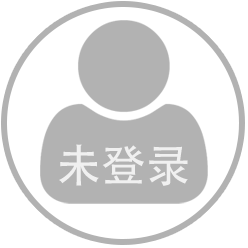
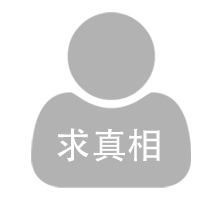
新增界面图标，实现首页布局

diff --git a/index.html b/index.html
@@ -8,13 +8,20 @@
 <meta name="apple-mobile-web-app-capable" content="yes" />
 <meta name="format-detection" content="telephone=no">
 <meta content="email=no" name="format-detection" />
+
+<!--禁止浏览器从本地计算机的缓存中访问页面内容-->
+<META HTTP-EQUIV="pragma" CONTENT="no-cache">
+<META HTTP-EQUIV="Cache-Control" CONTENT="no-cache, must-revalidate">
+<META HTTP-EQUIV="expires" CONTENT="Wed, 26 Feb 1997 08:21:57 GMT">
+<META HTTP-EQUIV="expires" CONTENT="0">
+
 <!--设置状态栏样式-->
 <meta name="apple-mobile-web-app-status-bar-style" content="black" />
-<!--禁止浏览器从本地计算机的缓存中访问页面内容-->
-<meta HTTP-EQUIV="Pragma" CONTENT="no-cache">
+
 
 <link rel="stylesheet" type="text/css" href="lib/css/icons.min.css" />
 <link rel="stylesheet" type="text/css" href="lib/css/af.ui.css" />
+<link rel="stylesheet" type="text/css" href="lib/css/app.css" />
 
 <script type="text/javascript" data-main="lib/app.js" charset="utf-8" src="lib/require.js"></script>
 
@@ -40,8 +47,13 @@
         
         <!--公共头部开始-->
         <header>
-        	<div style="width:60%; float:left; padding-left:30px;"><img src="lib/img/logo.png" height="35" /></div>
-            <h1>金易行</h1>
+        	<div class="jui-header-logo">
+            	<img src="lib/img/logo_name.png" height="35" />
+            </div>
+            <h1></h1>
+            <div class="jui-header-menubtn">
+            	<a href="javascript:void(0)" onclick="$.afui.drawer.show('#subnav','right','push')"><img src="lib/img/icon_menu_more.png" height="20" /></a>
+            </div>
         </header>
         <!--公共头部结束-->
         
@@ -49,41 +61,79 @@
         <!--主内容区开始-->
         <div class="pages">
         
-            <div data-left-drawer="left" class="panel" id="main" data-title="金易行" data-selected="true">
-            <p id='main_info'>Welcome to the kitchen sink demo for App Framework UI. Here you will find samples of how to use the App Framework UI. Please select an option from below.</p>
-                    <ul class="list">
-                        <li>
-                            <a href="#afuidemo/foo/bar/something">App Framework UI</a>
-                        </li>
-                        <li>
-                            <a href="#plugins">Plugins</a>
-                        </li>
-                        <li>
-                            <a href="index.html" data-ignore="true">App Framework theme</a>
-                        </li>
-                         <li>
-                            <a href="index.html?ios7" data-ignore="true">iOS theme</a>
-                        </li>
-                        <li>
-                            <a href="index.html?android" data-ignore="true">Android theme</a>
-                        </li>
-                        <li>
-                            <a href="index.html?win8" data-ignore="true">Win8 theme</a>
-                        </li>
-                        <li>
-                            <a href="index.html?bb" data-ignore="true">BB10 theme</a>
-                        </li>
-
-                         <li>
-                            <a href="index.html?tizen" data-ignore="true">tizen</a>
-                        </li>
-                        <li>
-                            <a href="index.html?firefox" data-ignore="true">firefox</a>
-                        </li>
-
-
-                    </ul>
+            <div data-left-drawer="left" class="panel" id="main" data-title="">
+				
+                <div class="jui-main-wrap">
+  					<div class="jui-main-weather"></div>
+                    <div class="jui-main-card">
+                        <table>
+                            <tr>
+                                <td>
+                                	<div class="jui-main-headimg"><img src="lib/img/icon_user_nologin.png"/></div>
+                                    <div class="jui-main-username">134***7636</div>
+                                </td>
+                                <td>
+                                	<div class="jui-main-cardno">卡号：134***7636</div>
+                                    <div class="jui-main-cardimg"><img src="lib/img/pic_main_card.png"/></div>
+                                </td>
+                            </tr>
+                        </table>
+                    </div>
+                    <div class="jui-main-data">
+                      <table cellspacing="1">
+                        <tr>
+                            <td>
+                            	<div class="jui-main-dataitem">1400km</div>
+                            </td>
+                            <td>B</td>
+                            <td>C</td>
+                        </tr>
+                    </table>
+                    </div>                
+                </div>
+  				
+                <!--首页主导航开始-->
+                <table id="jui-main-nav"  cellspacing="1">
+                	<tr>
+                    	<td>
+                            <div class="jui-main-menuwrap">
+                            	<img src="lib/img/icon_menu_wycz.png"/>
+                            </div>
+                        </td>
+                        <td>
+                        	<div class="jui-main-menuwrap">
+                            	<img src="lib/img/icon_menu_kpgl.png"/>
+                            </div>
+                        </td>
+                        <td>
+                        	<div class="jui-main-menuwrap">
+                            <img src="lib/img/icon_menu_yzd.png"/>
+                            </div>
+                        </td>
+                    </tr>
+                    <tr>
+                    	<td>
+                        	<div class="jui-main-menuwrap">
+                            	<img src="lib/img/icon_menu_txjl.png"/>
+                            </div>
+                        </td>
+                        <td>
+                        	<div class="jui-main-menuwrap">
+                            	<img src="lib/img/icon_menu_gsfl.png"/>
+                            </div>
+                        </td>
+                        <td>
+                        	<div class="jui-main-menuwrap" style="position:relative;">
+                                <img src="lib/img/icon_menu_wdxx.png"/>
+                                <span class="af-badge">5</span>
+                            </div>
+                        </td>
+                    </tr>
+                </table>
+                <!--首页主导航结束-->
+                
             </div>
+            
             <div data-left-drawer="left" class="panel" id="plugins" data-title="plugins" >
                 <ul class="list">
                     <li><a href="#login" data-transition="up-reveal">Login View (modal)</a></li>
@@ -106,20 +156,7 @@
         
         
         <!--侧边菜单开始-->
-        <nav id="left"  style="z-index:5" data-include="partials/leftnav.html"></nav>
-        <nav id="right">
-            <div class="view active" id="navView2">
-                <header>
-                    <h1>What</h1>
-                </header>
-                <div class="pages">
-
-                    <div class="panel active" id="rightNav" data-title="Foobar">
-                        This is the right nav
-                    </div>
-                </div>
-            </div>
-        </nav>
+        <nav id="subnav"  style="z-index:5" data-include="partials/subnav.html"></nav>
         <!--侧边菜单结束-->
         
     </div>

diff --git a/lib/css/app.css b/lib/css/app.css
@@ -1,0 +1,68 @@
+@charset "UTF-8";
+/* CSS Document */
+
+#main{ padding:0; font-family:'微软雅黑';}
+
+
+/*===========公共头部============*/
+.jui-header-logo{position:absolute; left:8%; top:auto;width:60%; height:44px; line-height:70px;}
+.jui-header-menubtn{ position:absolute; right:3%; top:auto; height:44px; line-height:54px; width:25%; text-align:right;}
+
+
+/*===========首页核心内容区============*/
+.jui-main-wrap{ width:100%; height:334px;}
+/*天气看板栏*/
+.jui-main-weather{width:100%; height:30%; background:url(../img/bg_main_tq.png);background-size:auto 100%; overflow:hidden; }
+
+/*首页卡片*/
+.jui-main-card{width:100%; height:37%; background:#f0f0f0;}
+.jui-main-card table{ width:100%; height:100%;}
+.jui-main-card td{ height:100%; width:33%;text-align:center; vertical-align:middle;}
+.jui-main-card td:nth-child(2){width:67%;}
+.jui-main-headimg{ width:100%; text-align:center;}
+.jui-main-headimg img{ width:80px; height:80px;border-radius:80px; border:2px solid #b2b2b2;}
+.jui-main-username{text-align:center; height:18px; line-height:18px; color:#b2b2b2;}
+.jui-main-cardimg img{ width:90%;}
+.jui-main-cardno{text-align:center; height:25px; line-height:25px; color:#b2b2b2;}
+
+/*首页统计数据*/
+.jui-main-data{width:100%; height:33%; color:#fff;}
+.jui-main-data table{width:100%;background:#e2e2e2; height:100%;}
+.jui-main-data table td{width:33%; text-align:center;}
+.jui-main-data table td:nth-child(1){background:#fb60a6;}
+.jui-main-data table td:nth-child(2){width:34%; background:#48b9f2;}
+.jui-main-data table td:nth-child(3){background:#fc9e42;}
+
+
+
+/*===========首页主导航============*/
+#jui-main-nav{width:100%;background:#e2e2e2; position:absolute; bottom:0;}
+#jui-main-nav td{ width:33%; height:90px;background:#FFF; text-align:center;}
+#jui-main-nav td:nth-child(2){ width:34%;}
+.jui-main-menuwrap{ width:100%; height:100%;}
+.jui-main-menuwrap img{ height:80%;}
+@media (device-height:480px) and (-webkit-min-device-pixel-ratio:2){/* 兼容iphone4/4s */
+#jui-main-nav td{height:80px;}
+.jui-main-wrap{height:266px;}
+.jui-main-headimg img{ width:70px; height:70px;border-radius:70px;}
+
+}
+
+@media (device-height:667px) and (-webkit-min-device-pixel-ratio:2){/*iphone6 */
+#jui-main-nav td{height:115px;}
+.jui-main-wrap{height:383px;}
+.jui-main-headimg img{ width:90px; height:90px;border-radius:90px;}
+}
+
+@media (device-height:736px) and (-webkit-min-device-pixel-ratio:3){/*iphone6p */
+#jui-main-nav td{height:128px;}
+.jui-main-wrap{height:426px;}
+.jui-main-headimg img{ width:110px; height:110px;border-radius:110px;}
+}
+
+
+/*=========侧边子菜单==========*/
+#navView{font-family:'微软雅黑'; }
+.jui-nav-user{height:150px; margin-top:44px; text-align:center;}
+.jui-nav-user img{ width:90px; height:90px;border-radius:90px;border:2px solid #b2b2b2;}
+.jui-nav-username{ color:#b2b2b2; height:30px; line-height:30px;}

diff --git a/partials/subnav.html b/partials/subnav.html
@@ -1,0 +1,15 @@
+<div class="view active" id="navView">
+    <div class="pages">
+        <div class="panel active" id="navmenu">
+        	<div class="jui-nav-user">
+            	<img src="lib/img/icon_user_nologin.png"/>
+            	<div class="jui-nav-username">Daivd</div>
+            </div>
+			<ul class="list">
+            	<li><a style="color:#989898;">关于我们</a></li>
+                <li><a style="color:#989898;">版本信息</a></li>
+                <li><a style="color:#989898;">意见与建议</a></li>
+            </ul>
+        </div>
+    </div>
+</div>

diff --git a/lib/css/af.ui.css b/lib/css/af.ui.css
@@ -2641,7 +2641,7 @@ li .icon:before {
   font-family: 'HelveticaNeue', 'Helvetica Neue', Helvetica, Arial, sans-serif;
 }
 .ios .view header {
-  background: #f8f8f8;
+  background:url(../img/bg_header.png) repeat-x;
   color: inherit;
   border: none;
   border-bottom: 1px solid #c8c7cc;

diff --git a/lib/app.js b/lib/app.js
@@ -92,6 +92,8 @@ requirejs(modules,function($,fastclick,afshim,afui,actionsheet,animation,touchEv
 
     $(document).ready(function(){
         $.afui.launch();
+		
+	
     });
     //if($.os.ios)
     $.afui.animateHeader(true);
